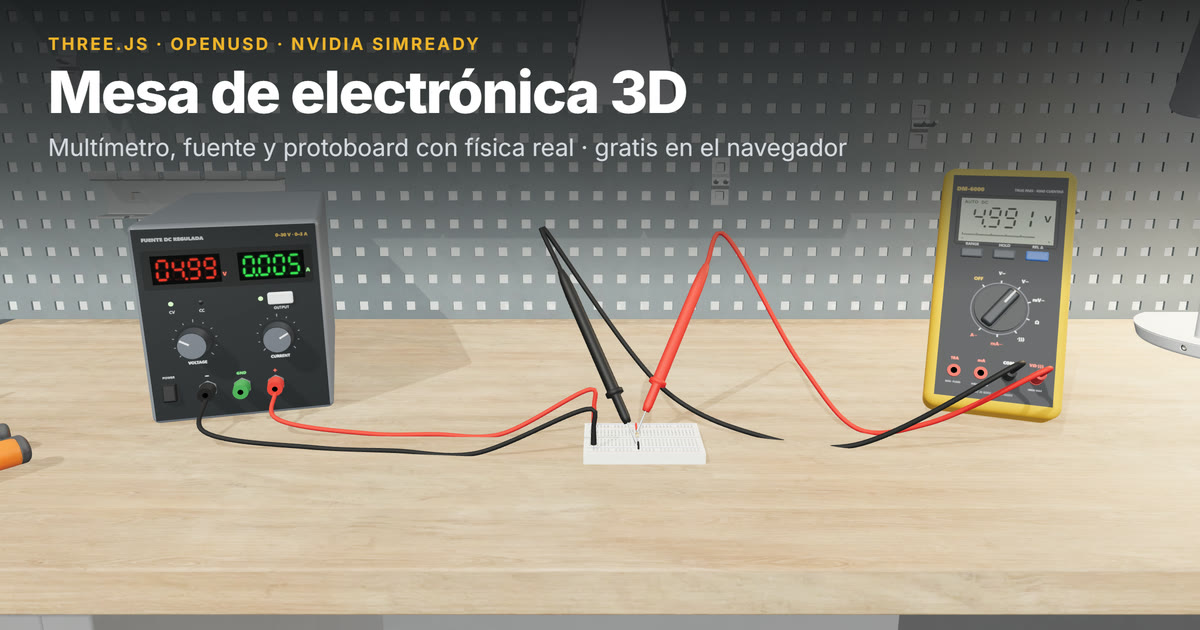
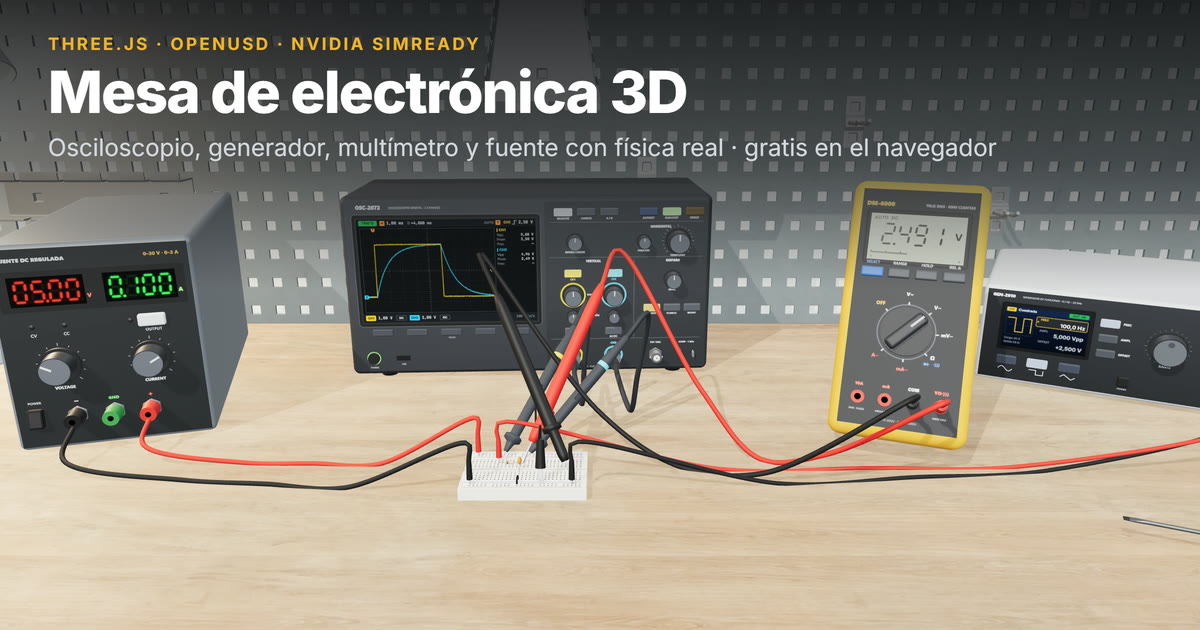
Vista previa del link con la mesa nueva
- og.jpg regenerada desde la escena real: circuito RC con el generador
  encendido, el osciloscopio mostrando la cuadrada y la carga del
  capacitor, y el multímetro midiendo el promedio.
- Descripciones y texto alternativo del link con el osciloscopio y el
  generador.
- Las puntas del osciloscopio se inclinan hacia los BNC (a la derecha):
  así no tapan la pantalla desde ningún ángulo de frente.

diff --git a/index.html b/index.html
@@ -4,7 +4,7 @@
     <meta charset="UTF-8" />
     <meta name="viewport" content="width=device-width, initial-scale=1.0" />
     <title>Mesa de electrónica 3D</title>
-    <meta name="description" content="Mesa de electrónica 3D en el navegador: practicá mediciones de tensión, corriente, resistencia y potencia con un multímetro y una fuente que se comportan como los reales. Gratis y open source." />
+    <meta name="description" content="Mesa de electrónica 3D en el navegador: practicá mediciones de tensión, corriente, resistencia y potencia con un multímetro y una fuente que se comportan como los reales, y mirá señales con un osciloscopio y un generador de funciones. Gratis y open source." />
     <meta name="theme-color" content="#17191d" />
     <link rel="icon" type="image/svg+xml" href="/favicon.svg" />
     <link rel="canonical" href="https://mesa-electronica-3d.vercel.app/" />
@@ -15,17 +15,17 @@
     <meta property="og:locale" content="es_AR" />
     <meta property="og:url" content="https://mesa-electronica-3d.vercel.app/" />
     <meta property="og:title" content="Mesa de electrónica 3D" />
-    <meta property="og:description" content="Multímetro, fuente y protoboard con física real, gratis en el navegador. Hecho con three.js y assets OpenUSD de NVIDIA SimReady." />
+    <meta property="og:description" content="Osciloscopio, generador, multímetro y fuente con física real, gratis en el navegador. Hecho con three.js y assets OpenUSD de NVIDIA SimReady." />
     <meta property="og:image" content="https://mesa-electronica-3d.vercel.app/og.jpg" />
     <meta property="og:image:type" content="image/jpeg" />
     <meta property="og:image:width" content="1200" />
     <meta property="og:image:height" content="630" />
-    <meta property="og:image:alt" content="Mesa de trabajo 3D con una fuente de laboratorio, un protoboard y un multímetro midiendo 4,991 V" />
+    <meta property="og:image:alt" content="Mesa de trabajo 3D con una fuente, un osciloscopio que muestra la carga y descarga de un capacitor, un multímetro que mide 2,491 V y un generador de funciones" />
     <meta name="twitter:card" content="summary_large_image" />
     <meta name="twitter:title" content="Mesa de electrónica 3D" />
-    <meta name="twitter:description" content="Multímetro, fuente y protoboard con física real, gratis en el navegador. Hecho con three.js y assets OpenUSD de NVIDIA SimReady." />
+    <meta name="twitter:description" content="Osciloscopio, generador, multímetro y fuente con física real, gratis en el navegador. Hecho con three.js y assets OpenUSD de NVIDIA SimReady." />
     <meta name="twitter:image" content="https://mesa-electronica-3d.vercel.app/og.jpg" />
-    <meta name="twitter:image:alt" content="Mesa de trabajo 3D con una fuente de laboratorio, un protoboard y un multímetro midiendo 4,991 V" />
+    <meta name="twitter:image:alt" content="Mesa de trabajo 3D con una fuente, un osciloscopio que muestra la carga y descarga de un capacitor, un multímetro que mide 2,491 V y un generador de funciones" />
     <link rel="preconnect" href="https://fonts.googleapis.com" />
     <link rel="preconnect" href="https://fonts.gstatic.com" crossorigin />
     <link href="https://fonts.googleapis.com/css2?family=Inter:wght@400;500;600;700;800&family=JetBrains+Mono:wght@500;700&display=swap" rel="stylesheet" />

diff --git a/src/main.ts b/src/main.ts
@@ -146,8 +146,9 @@ function probePose(c: ProbeId, t: ProbeTarget, hover = false): { tip: THREE.Vect
   if (t.kind === "hole") {
     const tip = bb.holeWorld(t.hole, hover ? -3 : c === "sgnd" ? 0.5 : 1.5);
     // mangos inclinados hacia atrás y hacia afuera para no tapar el protoboard; los del osciloscopio, hacia él
-    // las del osciloscopio, acostadas hacia los costados (paradas taparían la pantalla)
-    if (c === "ch1" || c === "ch2") return { tip, dir: new V3(0.55 * side, 0.62, -0.58).normalize() };
+    // las del osciloscopio, inclinadas hacia atrás y a la derecha, del lado de los BNC (paradas, o hacia
+    // la izquierda, taparían la pantalla)
+    if (c === "ch1" || c === "ch2") return { tip, dir: (c === "ch1" ? new V3(0.42, 0.62, -0.66) : new V3(0.62, 0.6, -0.5)).normalize() };
     if (c === "sgnd") return { tip, dir: new V3(0, 1, -0.25).normalize() };
     return { tip, dir: new V3(0.5 * side, 1, -0.6).normalize() };
   }
